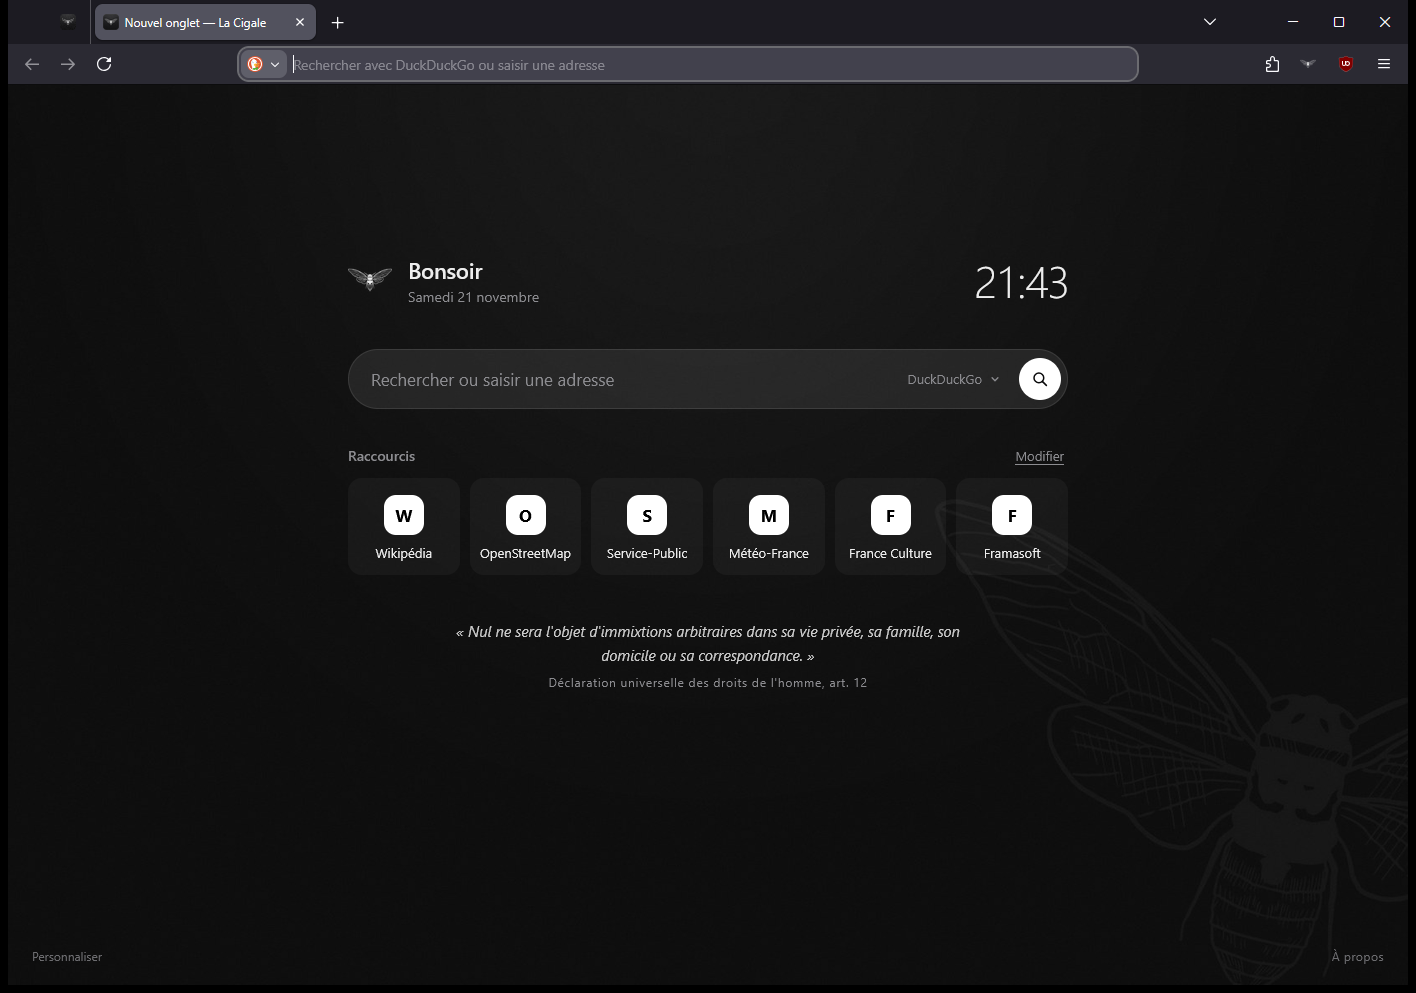
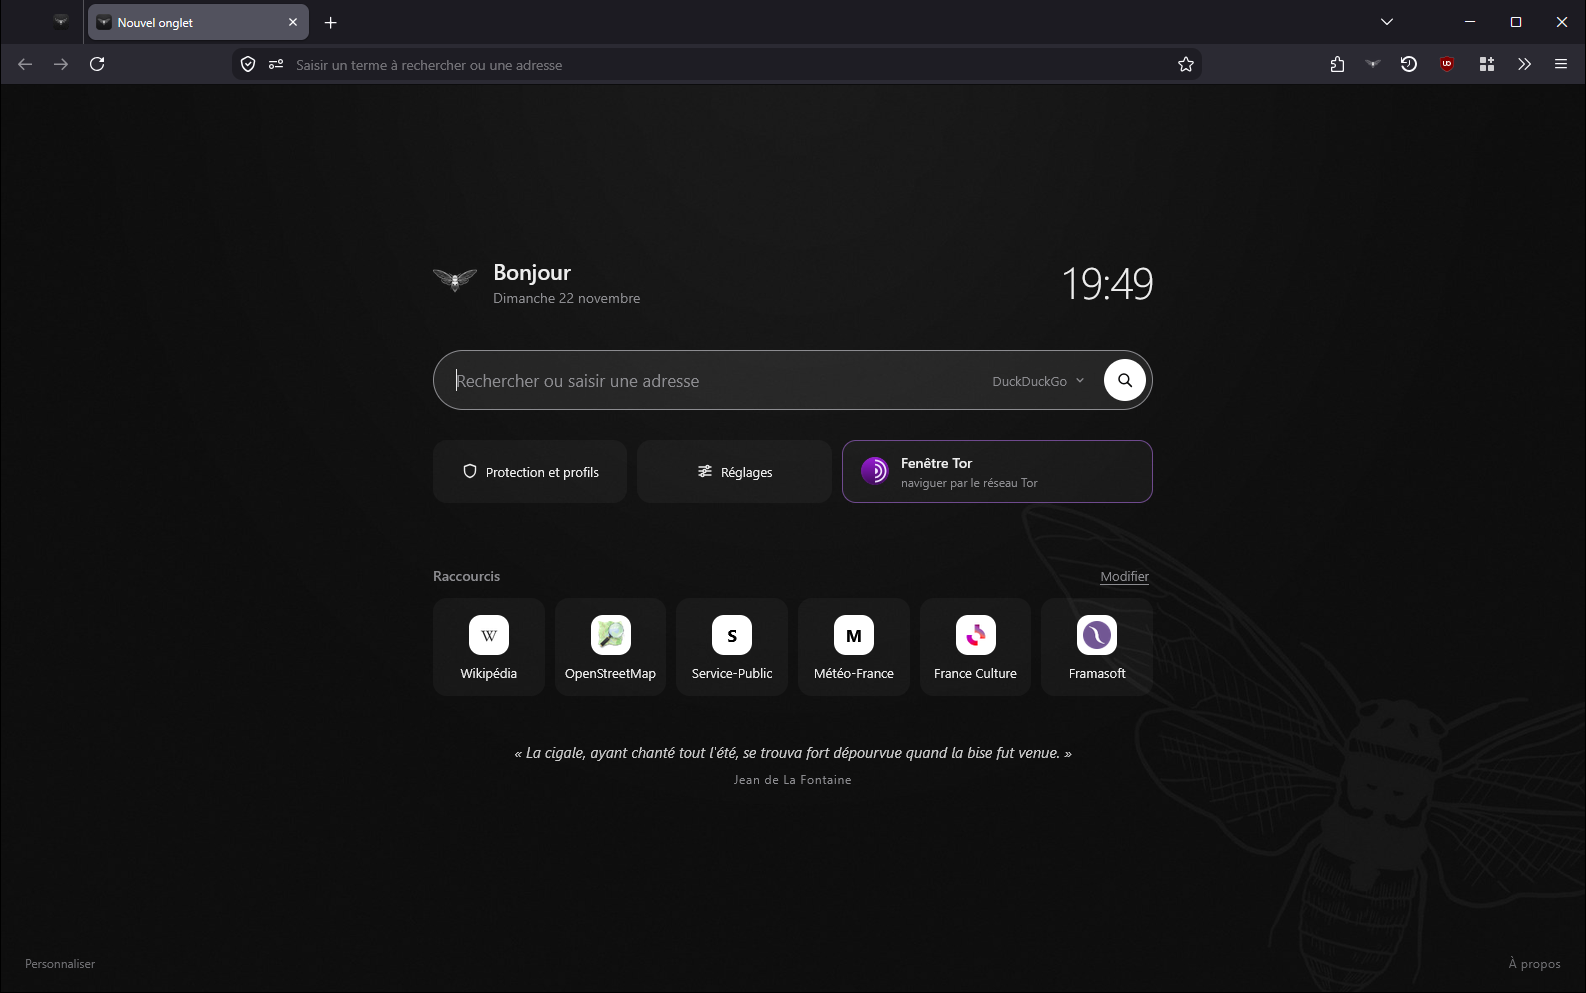
1.3.10 : tableau de sécurité complet, nouvelles captures, état de uBlock rafraîchi au premier démarrage

diff --git a/apparence/protection/protection.js b/apparence/protection/protection.js
@@ -636,6 +636,21 @@ window.addEventListener("hashchange", afficherNouveautes);
 // sinon la page s'ouvre parfois déjà défilée
 history.scrollRestoration = "manual";
 afficher();
+// Au premier démarrage, uBlock s'installe quelques secondes après l'ouverture de la page :
+// on rafraîchit l'état dès qu'une extension s'active ou s'installe.
+try {
+  const { AddonManager } = ChromeUtils.importESModule("resource://gre/modules/AddonManager.sys.mjs");
+  const ecouteur = { onEnabled: () => afficher(), onInstalled: () => afficher() };
+  AddonManager.addAddonListener(ecouteur);
+  const installation = { onInstallEnded: () => afficher() };
+  AddonManager.addInstallListener(installation);
+  window.addEventListener("unload", () => {
+    AddonManager.removeAddonListener(ecouteur);
+    AddonManager.removeInstallListener(installation);
+  });
+} catch (e) {
+  console.error(e);
+}
 afficherNouveautes();
 afficherRapport();
 afficherTor();

diff --git a/README.md b/README.md
@@ -18,12 +18,21 @@ Dérivé de Firefox ESR, durci pour l'anonymat, conçu en français.</p>
 - **Oublier ce site**, **fenêtre Tor**, **conteneurs**, **liens nettoyés**, **sauvegarde chiffrée**,
   **verrou au démarrage**, **mots-clés de recherche** : voir [Fonctions](#fonctions).
 
-| | La Cigale | Firefox | Chrome | Edge |
+| Réglages d'origine | La Cigale | Firefox | Chrome | Edge |
 |---|:---:|:---:|:---:|:---:|
-| Télémétrie désactivée d'office | oui | non | non | non |
-| Bloqueur de publicités intégré | oui | non | non | non |
+| Télémétrie désactivée | oui | non | non | non |
+| Bloqueur de publicités et de traqueurs (uBlock Origin) | oui | non | non | non |
+| Bannières de cookies refusées toutes seules | oui | selon le pays | non | non |
 | Anti-empreinte renforcé (type Tor Browser) | oui | non | non | non |
-| Données effacées à la fermeture | oui | non | non | non |
+| HTTPS obligatoire | oui | non | non | non |
+| DNS chiffré | oui (Quad9) | non | selon le fournisseur | selon le fournisseur |
+| WebRTC coupé, pas de fuite de l'adresse IP | oui | non | non | non |
+| Liens nettoyés (utm, fbclid, gclid…) | oui | non | non | non |
+| Cookies, historique et cache effacés à la fermeture | oui | non | non | non |
+| Fenêtre Tor intégrée | oui | non | non | non |
+| Proxys avec rotation, règles par site et coupe-circuit | oui | non | non | non |
+| Alerte si votre vraie adresse IP apparaît | oui | non | non | non |
+| Verrou par mot de passe au démarrage | oui | non | non | non |
 | Code source ouvert | oui | oui | non | non |
 
 <p align="center">
@@ -36,7 +45,10 @@ Dérivé de Firefox ESR, durci pour l'anonymat, conçu en français.</p>
 Le bouton cigale de la barre d'outils ouvre `about:cigale` : l'état réel des protections, le choix du
 profil, les sites où rester connecté et la vérification des mises à jour.
 
-<p align="center"><img src="docs/captures/protection.png" alt="Page Protection de La Cigale" width="760"></p>
+<p align="center">
+  <img src="docs/captures/protection.png" alt="Page Protection de La Cigale" width="49%">
+  <img src="docs/captures/adresse-ip.png" alt="Adresse IP : proxys, rotation et règles par site" width="49%">
+</p>
 
 ## Fonctions
 
